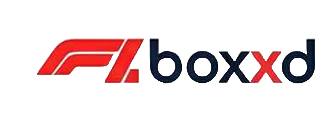
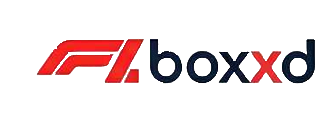
Final edit to frontend of navbar for now

diff --git a/client/src/Navbar/Navbar.jsx b/client/src/Navbar/Navbar.jsx
@@ -31,7 +31,7 @@ const Navbar = () => {
   return (
     <div className='Navbar'>
       <div className='nav-logo'>
-        <img src={logo} alt='F1boxxd logo'></img>
+        <img src={logo} alt='F1boxxd logo' className='Nav-logoo'></img>
         <div id="logo">
           <span id="F1"><img src={cart_logo} alt="WebsiteLogo"></img></span>
         </div>

diff --git a/client/src/Navbar/Navbar.css b/client/src/Navbar/Navbar.css
@@ -16,6 +16,11 @@
     background-color:rgba(0,0,0,0);
 }
 
+.Nav-logoo{
+    width:100px;
+    height:70px;
+}
+
 #logo{
     font-family:monospace;
     gap:4px;
